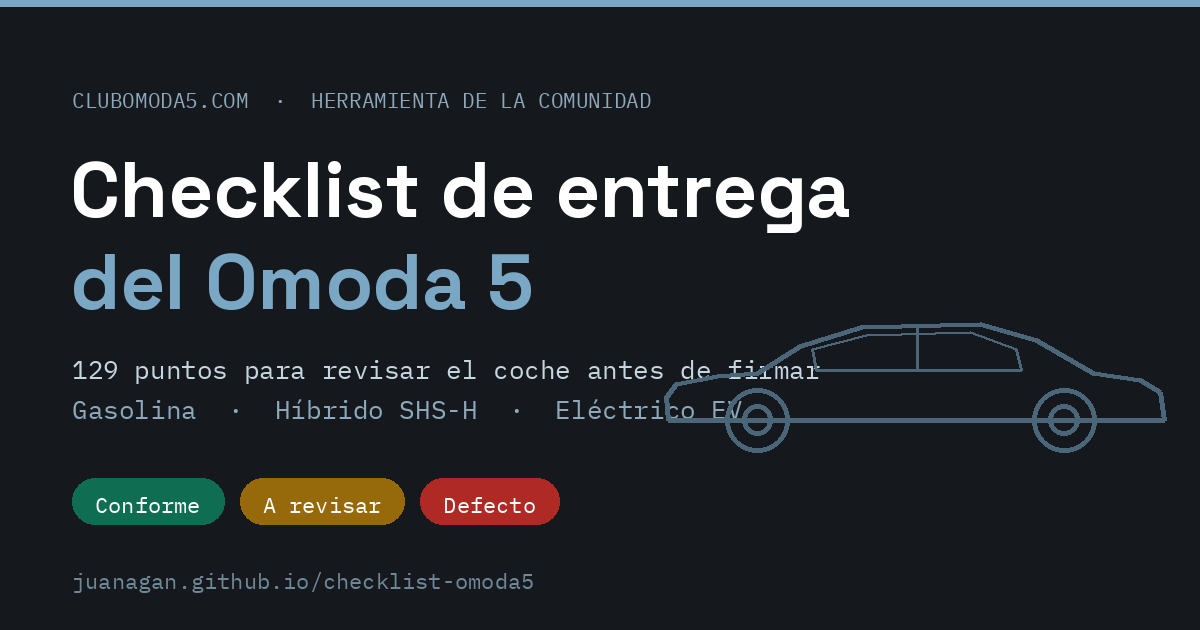
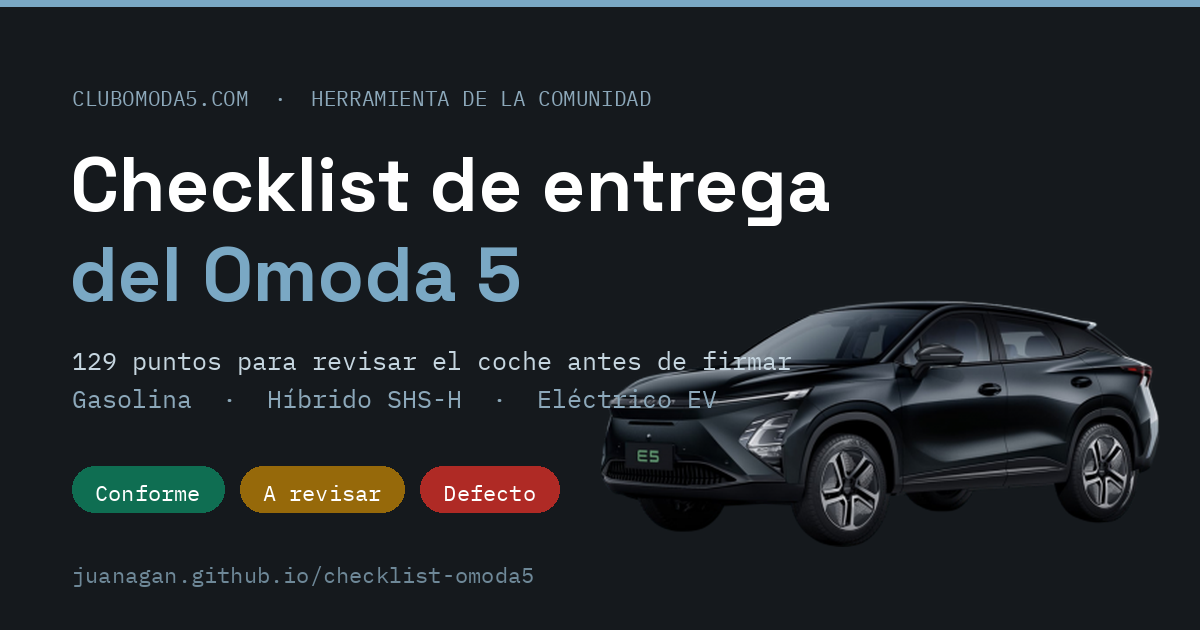
Add files via upload

diff --git a/index.html b/index.html
@@ -59,9 +59,9 @@
   .masthead{
     background:var(--ink);
     color:#F2F5F7;
-    margin:0 -14px 0;
-    padding:26px 20px 22px;
+    padding:24px 0 30px;
   }
+  .mh-inner{max-width:800px;margin:0 auto;padding:0 16px}
   .masthead .eyebrow{
     font-family:"IBM Plex Mono",monospace;
     font-size:11px;letter-spacing:.16em;text-transform:uppercase;
@@ -69,14 +69,19 @@
   }
   .masthead h1{
     font-family:"Space Grotesk",sans-serif;
-    font-weight:700;font-size:clamp(26px,6.5vw,38px);
-    line-height:1.06;letter-spacing:-.02em;margin:0 0 12px;
+    font-weight:700;font-size:clamp(27px,5.8vw,44px);
+    line-height:1.05;letter-spacing:-.022em;margin:0 0 16px;
   }
   .masthead .spec{
     font-family:"IBM Plex Mono",monospace;
-    font-size:12.5px;color:#A8BAC6;line-height:1.75;
+    font-size:clamp(11.5px,2.6vw,12.5px);color:#A8BAC6;line-height:1.75;margin:0;
   }
   .masthead .spec b{color:#E7EEF2;font-weight:500}
+  .mh-grid{display:grid;grid-template-columns:1fr;gap:18px;align-items:center}
+  @media (min-width:680px){
+    .mh-grid{grid-template-columns:1.04fr .96fr;gap:clamp(20px,4vw,44px)}
+    .masthead{padding:30px 0 36px}
+  }
 
   /* ---------- Barra de estado ---------- */
   .tally{
@@ -259,20 +264,26 @@
 
 
   /* ---------- Marca e ilustración ---------- */
-  .brandrow{display:flex;align-items:center;gap:11px;margin:0 0 22px}
+  .brandrow{display:flex;align-items:center;gap:11px;margin:0 0 clamp(18px,4vw,26px);flex-wrap:wrap}
   .mark{flex:none;width:30px;height:30px}
   .mark svg{width:100%;height:100%;display:block}
   .brandtxt{font-family:"IBM Plex Mono",monospace;font-size:10.5px;line-height:1.5;color:#8FA3B0;letter-spacing:.03em}
   .brandtxt b{color:#DCE7ED;font-weight:500}
-  .hero{margin:20px 0 18px;padding:0}
-  .hero img{display:none;width:100%;max-width:460px;border-radius:3px}
+  .oem{margin-left:auto;display:flex;flex-direction:column;align-items:flex-end;gap:4px}
+  .oem img{height:14px;width:auto;display:block;filter:brightness(0) invert(1);opacity:.7}
+  .oem em{font-family:"IBM Plex Mono",monospace;font-style:normal;font-size:8.5px;letter-spacing:.11em;text-transform:uppercase;color:#66798A}
+  .hero{margin:0;padding:0;min-width:0}
+  .hero img{display:none;width:100%;height:auto}
   .hero.haspic img{display:block}
   .hero.haspic .heroart{display:none}
-  .heroart{width:100%;max-width:440px;height:auto;display:block}
+  .heroart{width:100%;height:auto;display:block}
   .heroart .cl{fill:none;stroke:#5E7C90;stroke-width:3;stroke-linejoin:round;stroke-linecap:round}
   .heroart .cg{fill:none;stroke:#41596A;stroke-width:2.4;stroke-linejoin:round}
   .heroart .cm circle{fill:#7AA8C4}
-  .hero figcaption{font-family:"IBM Plex Mono",monospace;font-size:9.5px;color:#6F8492;margin-top:9px;max-width:440px;line-height:1.5}
+  .hero figcaption{font-family:"IBM Plex Mono",monospace;font-size:9.5px;color:#6F8492;margin-top:8px;line-height:1.5}
+  .cap-pic{display:none}
+  .hero.haspic .cap-art{display:none}
+  .hero.haspic .cap-pic{display:block}
   .offnote{font-family:"IBM Plex Mono",monospace;font-size:11px;color:var(--ok);margin:12px 0 0}
 
   /* ---------- Configuración y filtros ---------- */
@@ -351,34 +362,44 @@
 </style>
 </head>
 <body>
-<div class="wrap">
-
-  <header class="masthead">
+<header class="masthead">
+  <div class="mh-inner">
     <div class="brandrow">
       <span class="mark" aria-hidden="true"><svg viewBox="0 0 32 32"><rect width="32" height="32" rx="7" fill="#7AA8C4"/><path d="M9 16.6l4.6 4.6L23 11" fill="none" stroke="#15191D" stroke-width="3.4" stroke-linecap="round" stroke-linejoin="round"/></svg></span>
-      <span class="brandtxt">Herramienta de la comunidad de<br><b>clubomoda5.com</b> · versión 2.1</span>
+      <span class="brandtxt">Herramienta de la comunidad de<br><b>clubomoda5.com</b> · versión 2.2</span>
+      <span class="oem"><img src="assets/omoda-wordmark.svg" alt="Omoda" onerror="this.closest('.oem').remove()"><em>Sitio no oficial</em></span>
     </div>
-    <p class="eyebrow">Revisión previa a la firma</p>
-    <h1>Checklist de entrega<br>del Omoda 5</h1>
-    <figure class="hero" id="hero">
-      <img src="assets/omoda5.jpg" alt="Omoda 5" onerror="this.remove()" onload="document.getElementById('hero').classList.add('haspic')">
-      <svg class="heroart" viewBox="0 0 660 200" role="img" aria-label="Ilustración de un SUV compacto visto de perfil, con los puntos de revisión marcados">
-        <polyline class="cl" points="10,150 8,122 20,105 72,96 122,92 176,58 252,34 400,30 470,50 542,92 600,100 626,116 630,150"/>
-        <line class="cl" x1="10" y1="150" x2="630" y2="150"/>
-        <polygon class="cg" points="190,62 258,44 388,41 446,62 452,88 196,88"/>
-        <line class="cg" x1="322" y1="42" x2="322" y2="88"/>
-        <circle class="cl" cx="122" cy="150" r="40"/><circle class="cg" cx="122" cy="150" r="19"/>
-        <circle class="cl" cx="505" cy="150" r="40"/><circle class="cg" cx="505" cy="150" r="19"/>
-        <g class="cm"><circle cx="24" cy="116" r="6"/><circle cx="198" cy="60" r="6"/><circle cx="505" cy="150" r="6"/><circle cx="620" cy="116" r="6"/></g>
-      </svg>
-      <figcaption>Ilustración propia. Los puntos marcan cuatro de las zonas donde más incidencias se han reportado.</figcaption>
-    </figure>
-    <p class="spec">
-      <b>129 puntos</b> para revisar el coche antes de firmar<br>
-      Gasolina · Híbrido SHS-H · Eléctrico EV, en cualquier acabado<br>
-      A partir de casos reales publicados por propietarios en el foro
-    </p>
-  </header>
+    <div class="mh-grid">
+      <div class="mh-text">
+        <p class="eyebrow">Revisión previa a la firma</p>
+        <h1>Checklist de entrega<br>del Omoda 5</h1>
+        <p class="spec">
+          <b>129 puntos</b> para revisar el coche antes de firmar<br>
+          Gasolina · Híbrido SHS-H · Eléctrico EV, en cualquier acabado<br>
+          A partir de casos reales publicados por propietarios en el foro
+        </p>
+      </div>
+      <figure class="hero" id="hero">
+        <img src="assets/omoda5.png" alt="Omoda 5 visto de tres cuartos" onerror="this.remove()" onload="document.getElementById('hero').classList.add('haspic')">
+        <svg class="heroart" viewBox="0 0 660 200" role="img" aria-label="Ilustración de un SUV compacto visto de perfil, con los puntos de revisión marcados">
+          <polyline class="cl" points="10,150 8,122 20,105 72,96 122,92 176,58 252,34 400,30 470,50 542,92 600,100 626,116 630,150"/>
+          <line class="cl" x1="10" y1="150" x2="630" y2="150"/>
+          <polygon class="cg" points="190,62 258,44 388,41 446,62 452,88 196,88"/>
+          <line class="cg" x1="322" y1="42" x2="322" y2="88"/>
+          <circle class="cl" cx="122" cy="150" r="40"/><circle class="cg" cx="122" cy="150" r="19"/>
+          <circle class="cl" cx="505" cy="150" r="40"/><circle class="cg" cx="505" cy="150" r="19"/>
+          <g class="cm"><circle cx="24" cy="116" r="6"/><circle cx="198" cy="60" r="6"/><circle cx="505" cy="150" r="6"/><circle cx="620" cy="116" r="6"/></g>
+        </svg>
+        <figcaption class="cap-art">Ilustración propia. Los puntos marcan cuatro de las zonas con más incidencias reportadas.</figcaption>
+        <figcaption class="cap-pic">Omoda 5 EV Premium.</figcaption>
+      </figure>
+    </div>
+  </div>
+</header>
+
+<div class="wrap">
+
+
 
   <div class="tally">
     <div class="tally-row">

diff --git a/sw.js b/sw.js
@@ -1,8 +1,11 @@
 /* Service worker del checklist de entrega del Omoda 5.
    Estrategia: red primero, caché como respaldo. Así siempre ves la última
-   versión si hay cobertura, y sigue funcionando en el sótano del concesionario. */
-const CACHE = 'checklist-omoda5-v2.1.0';
-const ASSETS = [
+   versión si hay cobertura, y sigue funcionando en el sótano del concesionario.
+   Al publicar cambios, sube el número de versión de esta línea. */
+const CACHE = 'checklist-omoda5-v2.2.0';
+
+/* Tienen que existir sí o sí: si uno falla, no se instala la caché. */
+const CORE = [
   './',
   './index.html',
   './manifest.webmanifest',
@@ -17,11 +20,19 @@ const ASSETS = [
   './assets/fonts/space-grotesk-latin-700-normal.woff2'
 ];
 
+/* Pueden faltar sin que pase nada. */
+const EXTRA = [
+  './assets/omoda5.png',
+  './assets/omoda-wordmark.svg'
+];
+
 self.addEventListener('install', e => {
   e.waitUntil(
-    caches.open(CACHE)
-      .then(c => c.addAll(ASSETS))
-      .then(() => self.skipWaiting())
+    caches.open(CACHE).then(c =>
+      c.addAll(CORE).then(() =>
+        Promise.all(EXTRA.map(u => c.add(u).catch(() => {})))
+      )
+    ).then(() => self.skipWaiting())
   );
 });
 
